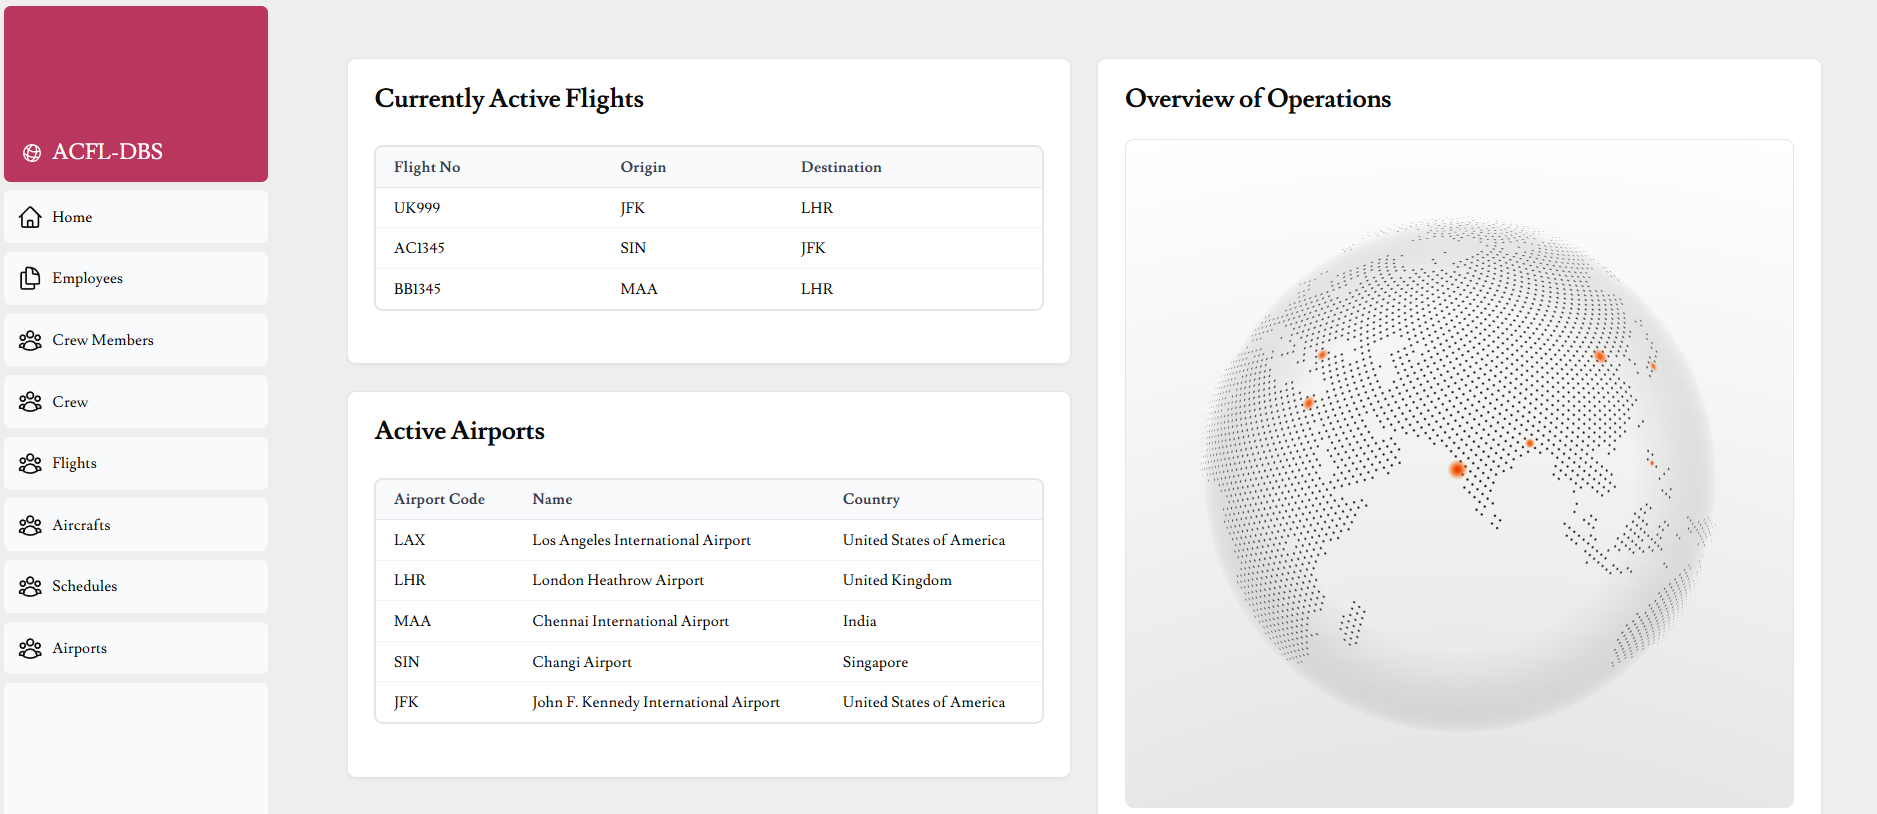
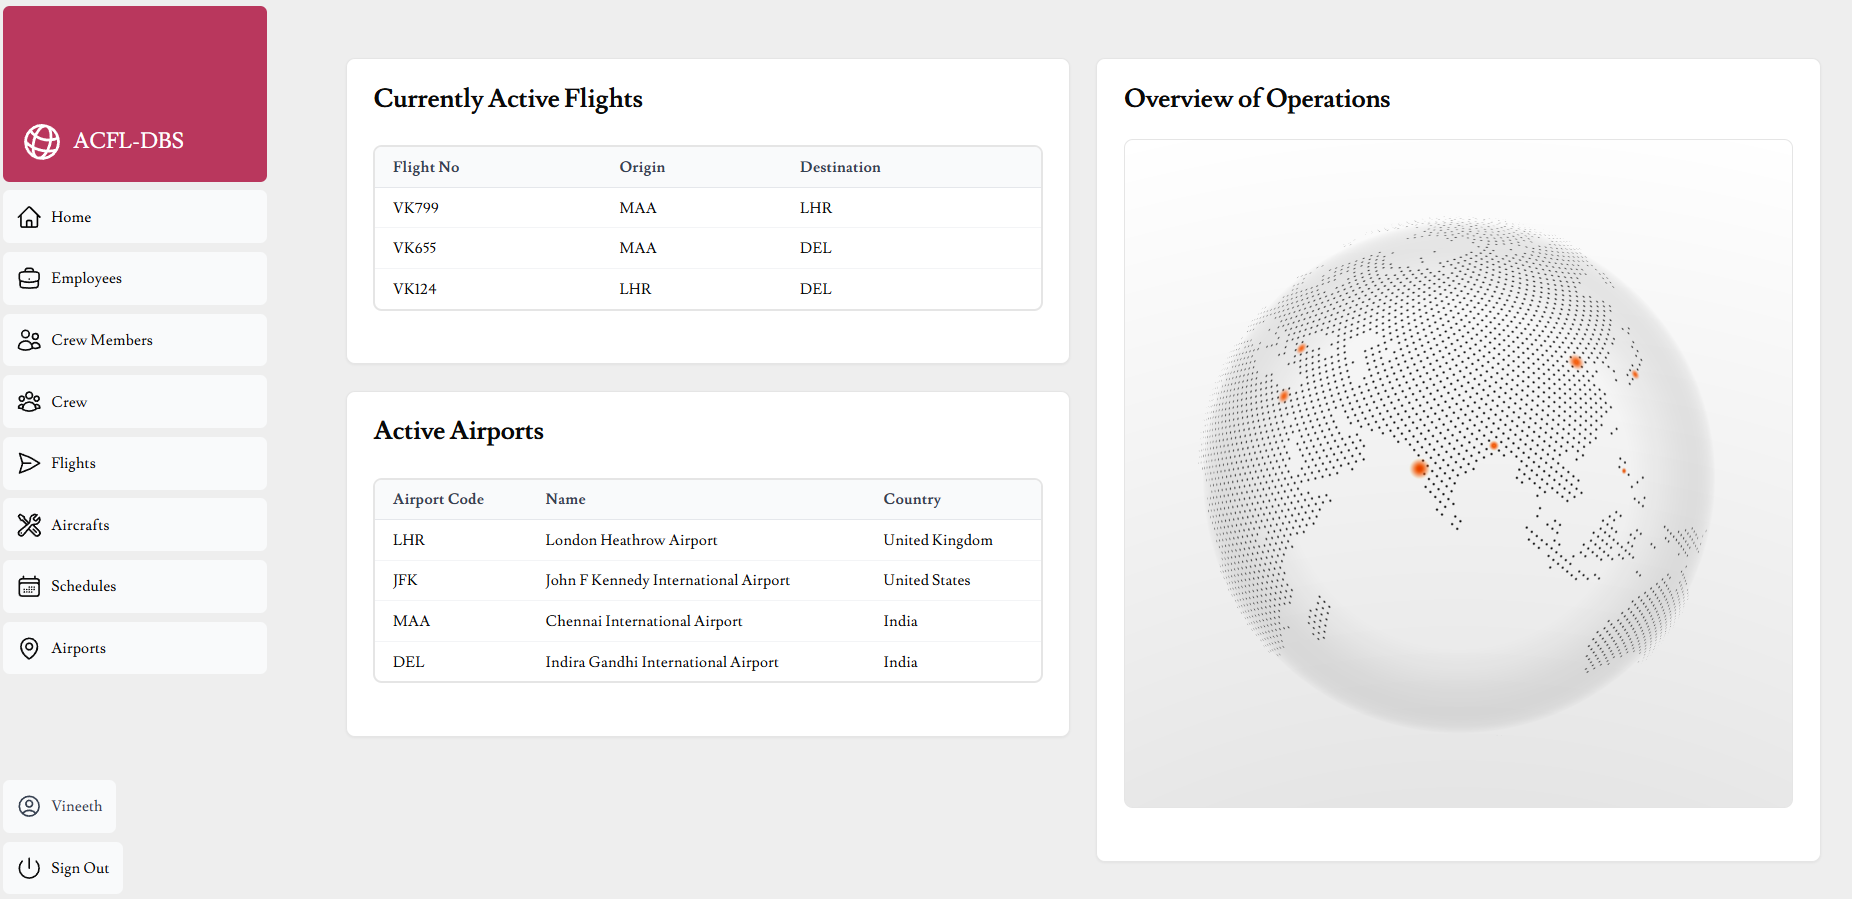
Stable Release

diff --git a/src/app/ui/dashboard/sidenav.tsx b/src/app/ui/dashboard/sidenav.tsx
@@ -1,23 +1,40 @@
 import Link from 'next/link';
 import NavLinks from '@/app/ui/dashboard/nav-links';
 import Logo from '@/app/ui/logo2'
-import { PowerIcon } from '@heroicons/react/24/outline';
+import { PowerIcon, UserCircleIcon } from '@heroicons/react/24/outline';
 import { signOut } from '@/app/login/actions';
+import { createClient } from '@/supabase/server';
 
-export default function SideNav() {
+export default async function SideNav() {
+  const supabase = await createClient();
+  const { data } = await supabase.auth.getUser();
+  const user = data?.user;
+  let displayName = 'Signed in';
+  if (user?.id) {
+    const { data: profile } = await supabase
+      .from('users')
+      .select('name, email')
+      .eq('id', user.id)
+      .single();
+    displayName = (profile?.name as string) || (profile?.email as string) || user.email || 'Signed in';
+  }
   return (
-    <div className="flex h-full flex-col px-3 py-4 md:px-2">
+    <div className="flex h-full flex-col px-3 py-4 md:px-2 overflow-hidden">
       <Link
         className="mb-2 flex h-20 items-end justify-start rounded-md bg-[#B9375D] p-4 md:h-40"
         href="/"
       >
-        <div className="w-32 text-white md:w-40">
+        <div className="w-40 text-white md:w-40">
           <Logo />
         </div>
       </Link>
-      <div className="flex grow flex-row justify-between space-x-2 md:flex-col md:space-x-0 md:space-y-2">
+      <div className="flex grow flex-row flex-wrap items-start gap-2 md:flex-col md:flex-nowrap md:gap-2 overflow-x-hidden md:overflow-visible">
         <NavLinks />
-        <div className="hidden h-auto w-full grow rounded-md bg-gray-50 md:block"></div>
+        <div className="hidden md:block md:flex-1"></div>
+        <div className="hidden md:flex items-center gap-2 rounded-md bg-gray-50 p-3 text-sm font-medium text-gray-700">
+          <UserCircleIcon className="w-6" />
+          <span className="truncate">{displayName}</span>
+        </div>
         <form action={signOut}>
           <button className="flex h-[48px] w-full grow items-center justify-center gap-2 rounded-md bg-gray-50 p-3 text-sm font-medium hover:bg-sky-100 hover:text-blue-600 md:flex-none md:justify-start md:p-2 md:px-3">
             <PowerIcon className="w-6" />

diff --git a/src/app/ui/dashboard/nav-links.tsx b/src/app/ui/dashboard/nav-links.tsx
@@ -4,6 +4,12 @@ import {
   UserGroupIcon,
   HomeIcon,
   DocumentDuplicateIcon,
+  CalendarDaysIcon,
+  BriefcaseIcon,
+  UsersIcon,
+  PaperAirplaneIcon,
+  WrenchScrewdriverIcon,
+  MapPinIcon,
 } from '@heroicons/react/24/outline';
 import clsx from 'clsx';
 import Link from 'next/link';
@@ -12,17 +18,13 @@ import { usePathname } from 'next/navigation';
 // Depending on the size of the application, this would be stored in a database.
 const links = [
   { name: 'Home', href: '/dashboard', icon: HomeIcon },
-  {
-    name: 'Employees',
-    href: '/dashboard/employees',
-    icon: DocumentDuplicateIcon,
-  },
-  { name: 'Crew Members', href: '/dashboard/crew-members', icon: UserGroupIcon },
+  { name: 'Employees', href: '/dashboard/employees', icon: BriefcaseIcon },
+  { name: 'Crew Members', href: '/dashboard/crew-members', icon: UsersIcon },
   { name: 'Crew', href: '/dashboard/crews', icon: UserGroupIcon },
-  { name: 'Flights', href: '/dashboard/flights', icon: UserGroupIcon },
-  { name: 'Aircrafts', href: '/dashboard/aircrafts', icon: UserGroupIcon },
-  { name: 'Schedules', href: '/dashboard/schedules', icon: UserGroupIcon },
-  { name: 'Airports', href: '/dashboard/airports', icon: UserGroupIcon },
+  { name: 'Flights', href: '/dashboard/flights', icon: PaperAirplaneIcon },
+  { name: 'Aircrafts', href: '/dashboard/aircrafts', icon: WrenchScrewdriverIcon },
+  { name: 'Schedules', href: '/dashboard/schedules', icon: CalendarDaysIcon },
+  { name: 'Airports', href: '/dashboard/airports', icon: MapPinIcon },
   
 ];
 
@@ -37,7 +39,7 @@ export default function NavLinks() {
             key={link.name}
             href={link.href}
             className={clsx(
-              'flex h-[48px] grow items-center justify-center gap-2 rounded-md bg-gray-50 p-3 text-sm font-medium hover:bg-[#E7D3D3] hover:text-white md:flex-none md:justify-start md:p-2 md:px-3',
+              'flex h-[48px] grow items-center justify-center gap-2 rounded-md bg-gray-50 p-3 text-sm font-medium hover:bg-[#E7D3D3] hover:text-white md:flex-none md:justify-start md:w-full md:py-2 md:px-3',
               {
                 'bg-[#E7D3D3] text-black font-bold': pathname === link.href,
               },

diff --git a/src/app/page.tsx b/src/app/page.tsx
@@ -1,3 +1,21 @@
+import { Metadata } from 'next';
+
+export const metadata: Metadata = {
+  title: 'ACFL-DBS',
+  description: 'Airline Crew and Flight Logistics Database System - Manage your flight operations with ease',
+  openGraph: {
+    title: 'ACFL-DBS',
+    description: 'Airline Crew and Flight Logistics Database System - Manage your flight operations with ease',
+    images: ['/meta.png'],
+  },
+  twitter: {
+    card: 'summary_large_image',
+    title: 'ACFL-DBS',
+    description: 'Airline Crew and Flight Logistics Database System - Manage your flight operations with ease',
+    images: ['/meta.png'],
+  },
+};
+
 import Logo from '@/app/ui/logo';
 import { ArrowRightIcon } from '@heroicons/react/24/outline';
 
@@ -14,13 +32,15 @@ export default function Page() {
         <Logo  />
       </div>
       <div className=" mt-2 flex grow flex-col md:gap-4 md:flex-row">
-        <div className="hidden flex items-center justify-center p-6 md:w-3/5 md:px-28 md:py-12 md:block">
+        <div className="hidden md:block flex items-center justify-center p-6 md:w-3/5 md:px-28 md:py-12">
           <Image
             src="/hero-desktop.png"
             alt="SS of dashboard in desktop"
-            width={1024}
-            height={760}
-            className='hidden md:block'
+            width={1200}
+            height={800}
+            priority
+            sizes="(min-width: 768px) 60vw, 0px"
+            className='w-full h-auto max-w-full'
           />
           
         </div>
@@ -39,13 +59,15 @@ export default function Page() {
           </Link>
         </div>
 
-        <div className="md:hidden flex items-center justify-center p-6 md:w-3/5 md:px-28 md:py-12">
+        <div className="md:hidden flex items-center justify-center p-6">
           <Image
             src="/hero-mobile.png"
             alt="SS of dashboard in mobile"
             width={560}
             height={620}
-            className='block md:hidden'
+            priority
+            sizes="100vw"
+            className='w-full h-auto'
           />   
         </div>
         

diff --git a/src/app/login/page.tsx b/src/app/login/page.tsx
@@ -1,3 +1,21 @@
+import { Metadata } from 'next';
+
+export const metadata: Metadata = {
+  title: 'Login',
+  description: 'Sign in to ACFL-DBS - Airline Crew and Flight Logistics Database System',
+  openGraph: {
+    title: 'Login - ACFL-DBS',
+    description: 'Sign in to ACFL-DBS - Airline Crew and Flight Logistics Database System',
+    images: ['/meta.png'],
+  },
+  twitter: {
+    card: 'summary_large_image',
+    title: 'Login - ACFL-DBS',
+    description: 'Sign in to ACFL-DBS - Airline Crew and Flight Logistics Database System',
+    images: ['/meta.png'],
+  },
+};
+
 import Logo from '../ui/logo2'; 
 import LoginForm from '@/app/ui/login-form';
 import { Suspense } from 'react';
@@ -6,7 +24,7 @@ export default function LoginPage() {
   return (
     <main className="flex items-center justify-center md:h-screen">
       <div className="relative mx-auto flex w-full max-w-[400px] flex-col space-y-2.5 p-4 md:-mt-32">
-        <div className="flex h-20 w-full items-end rounded-lg bg-blue-500 p-3 md:h-36">
+        <div className="flex h-20 w-full items-end rounded-lg bg-[#B9375D] p-3 md:h-36">
           <div className="w-32 text-white md:w-36">
             <Logo />
           </div>

diff --git a/src/app/signup/page.tsx b/src/app/signup/page.tsx
@@ -1,3 +1,9 @@
+import { Metadata } from 'next';
+
+export const metadata: Metadata = {
+  title: 'Sign Up',
+};
+
 import Logo from '../ui/logo2'; 
 import SignUpForm from '../ui/sign-up-form';
 import { Suspense } from 'react';
@@ -6,7 +12,7 @@ export default function LoginPage() {
   return (
     <main className="flex items-center justify-center md:h-screen">
       <div className="relative mx-auto flex w-full max-w-[400px] flex-col space-y-2.5 p-4 md:-mt-32">
-        <div className="flex h-20 w-full items-end rounded-lg bg-blue-500 p-3 md:h-36">
+        <div className="flex h-20 w-full items-end rounded-lg bg-[#B9375D] p-3 md:h-36">
           <div className="w-32 text-white md:w-36">
             <Logo />
           </div>

diff --git a/src/app/dashboard/page.tsx b/src/app/dashboard/page.tsx
@@ -1,3 +1,21 @@
+import { Metadata } from 'next';
+
+export const metadata: Metadata = {
+  title: 'Dashboard',
+  description: 'ACFL-DBS Dashboard - Overview of flight operations, active flights, and airports',
+  openGraph: {
+    title: 'Dashboard - ACFL-DBS',
+    description: 'ACFL-DBS Dashboard - Overview of flight operations, active flights, and airports',
+    images: ['/meta.png'],
+  },
+  twitter: {
+    card: 'summary_large_image',
+    title: 'Dashboard - ACFL-DBS',
+    description: 'ACFL-DBS Dashboard - Overview of flight operations, active flights, and airports',
+    images: ['/meta.png'],
+  },
+};
+
 export const dynamic = "force-dynamic";
 
 import FlightSchedulesTable from "@/app/ui/schedules/table";

diff --git a/src/app/dashboard/flights/page.tsx b/src/app/dashboard/flights/page.tsx
@@ -1,3 +1,21 @@
+import { Metadata } from 'next';
+
+export const metadata: Metadata = {
+  title: 'Flights',
+  description: 'Manage flight information, schedules, and logistics in ACFL-DBS',
+  openGraph: {
+    title: 'Flights - ACFL-DBS',
+    description: 'Manage flight information, schedules, and logistics in ACFL-DBS',
+    images: ['/meta.png'],
+  },
+  twitter: {
+    card: 'summary_large_image',
+    title: 'Flights - ACFL-DBS',
+    description: 'Manage flight information, schedules, and logistics in ACFL-DBS',
+    images: ['/meta.png'],
+  },
+};
+
 import FlightsTable from '@/app/ui/flights/table';
 import Search from '@/app/ui/search';
 import { CreateFlight } from '@/app/ui/flights/buttons';

diff --git a/src/app/ui/aircrafts/table.tsx b/src/app/ui/aircrafts/table.tsx
@@ -46,7 +46,10 @@ export default async function AircraftsTable({
                       Created: {aircraft.created_at}
                     </p>
                   </div>
-                  
+                  <div className='flex gap-2 pt-4'>
+                    <UpdateAircraft id={aircraft.aircraft_id}/>
+                    <DeleteAircraft id={aircraft.aircraft_id}/>
+                  </div>                  
                 </div>
               </div>
             ))}

diff --git a/src/app/ui/employees/table.tsx b/src/app/ui/employees/table.tsx
@@ -50,7 +50,10 @@ export default async function EmployeesTable({
                       Joined: {employee.created_at}
                     </p>
                   </div>
-                  
+                  <div className='flex gap-2 pt-4'>
+                    <UpdateEmployee id={employee.employee_id}/>
+                    <DeleteEmployee id={employee.employee_id}/>
+                  </div>
                 </div>
               </div>
             ))}

diff --git a/src/app/ui/airports/table.tsx b/src/app/ui/airports/table.tsx
@@ -43,7 +43,10 @@ export default async function AirportsTable({
                       Created: {airport.created_at}
                     </p>
                   </div>
-                  
+                  <div className='flex gap-2 pt-4'>
+                    <UpdateAirport id={airport.airport_id}/>
+                    <DeleteAirport id={airport.airport_id}/>
+                  </div>
                 </div>
               </div>
             ))}

diff --git a/src/app/ui/flights/table.tsx b/src/app/ui/flights/table.tsx
@@ -46,7 +46,10 @@ export default async function FlightsTable({
                       Created: {flight.created_at}
                     </p>
                   </div>
-                  
+                  <div className='flex gap-2 pt-4'>
+                    <UpdateFlight id={flight.flight_id}/>
+                    <DeleteFlight id={flight.flight_id}/>
+                  </div>
                 </div>
               </div>
             ))}

diff --git a/src/app/ui/logo.tsx b/src/app/ui/logo.tsx
@@ -7,7 +7,7 @@ export default function Logo() {
       className={`${lusitana.className} flex flex-row items-center leading-none text-white`}
     >
       <GlobeAltIcon className="h-12 w-12 mr-2 rotate-[15deg]" />
-      <p className="text-[44px]">Airline Crew and Flight Logistics Database System</p>
+      <p className="text-[22px] md:text-[44px]">Airline Crew and Flight Logistics Database System</p>
 
       
 
